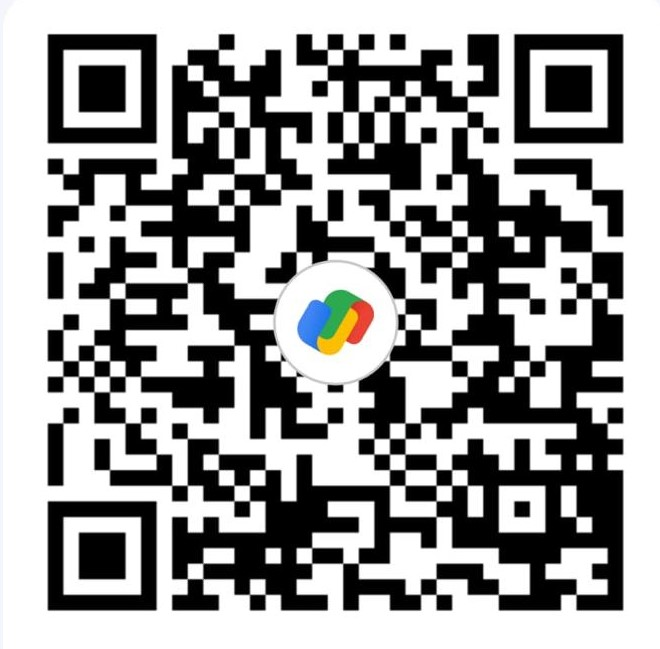
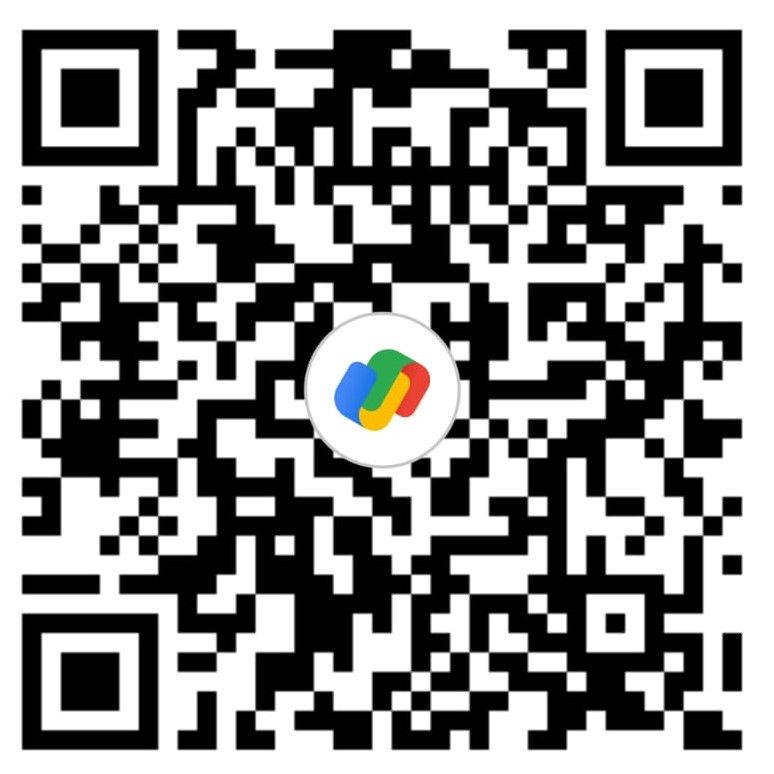
commit

diff --git a/src/Component/Pages/Wallet/Recharge/Recharge.tsx b/src/Component/Pages/Wallet/Recharge/Recharge.tsx
@@ -1,32 +1,44 @@
 import React, { useState } from 'react';
 import Header from '../../../Layout/Header/Header';
 import Footer from '../../../Layout/footer/Footer';
-import { db, auth } from '../../../../firebase/Firebase';
+import { db, auth, storage } from '../../../../firebase/Firebase';
 import { doc, setDoc } from 'firebase/firestore';
+import { ref, uploadBytes, getDownloadURL } from 'firebase/storage';
+import logo from '../../../../assets/upilogo.png';
+import { FaRegCopy } from "react-icons/fa6";
+import Toast from '../../../../Component/Layout/toast/Toast';
 
 const Recharge: React.FC = () => {
-    const [qrIndex, setQrIndex] = useState<number>(Math.floor(Math.random() * 5));
+    const [selectedUpiIndex, setSelectedUpiIndex] = useState<number | null>(null);
     const [utrNumber, setUtrNumber] = useState<string>('');
     const [rechargeAmount, setRechargeAmount] = useState<number | null>(null);
+    const [paymentProof, setPaymentProof] = useState<File | null>(null);
+    const [toastMessage, setToastMessage] = useState<string | null>(null);
     const currentUser = auth.currentUser;
 
     const qrDetails = [
-        { src: '../../../../../public/UPI/upi1.jpeg', upiId: 'mr2919635@okhdfcbank', name: 'Muthuraman M' },
-        { src: '../../../../../public/UPI/upi2.jpeg', upiId: 'priyadharshini140205@okaxis', name: 'Priya Dharshini' },
-        { src: '../../../../../public/UPI/upi3.jpeg', upiId: 'abrahama1906-2@okicici', name: 'Abraham A' },
-        { src: '../../../../../public/UPI/upi4.jpeg', upiId: 'masssaravanan854@okicici', name: 'Saravana Kumar' },
-        { src: '../../../../../public/UPI/upi5.jpeg', upiId: 'rockynaveen029-2@oksbi', name: 'Naveen Rocky' },
+        { upiId: 'saran2002murugan-1@oksbi', name: 'Saravanan M' },
+        { upiId: 'mchinnadurai582@okicici', name: 'M Chinnadurai' },
+        { upiId: 'rockykodi88@oksbi', name: 'Rocky Kodi' },
     ];
 
     const rechargeOptions = [100, 200, 500, 1000, 2000, 2500, 3000, 5000];
 
     const handleUtrSubmit = async () => {
+        if (selectedUpiIndex === null) {
+            setToastMessage('Please select a UPI ID');
+            return;
+        }
         if (!utrNumber || utrNumber.length !== 12 || !/^\d{12}$/.test(utrNumber)) {
-            alert('Please Enter UTR number');
+            setToastMessage('Please enter a valid 12-digit UTR number');
             return;
         }
         if (!rechargeAmount) {
-            alert('Please select a recharge amount');
+            setToastMessage('Please select a recharge amount');
+            return;
+        }
+        if (!paymentProof) {
+            setToastMessage('Please upload the payment proof');
             return;
         }
 
@@ -34,18 +46,41 @@ const Recharge: React.FC = () => {
         const timestamp = new Date();
 
         try {
+            const storageRef = ref(storage, `RechargeList/${userEmail}/${paymentProof.name}`);
+            await uploadBytes(storageRef, paymentProof);
+            const proofURL = await getDownloadURL(storageRef);
+
             const docRef = doc(db, 'RechargeList', userEmail);
             await setDoc(docRef, {
                 utrNumber: utrNumber.trim(),
                 rechargeAmount,
+                upiId: qrDetails[selectedUpiIndex].upiId,
+                proofURL,
                 timestamp
             }, { merge: false });
-            alert('Recharge information Sent Successfully Please wait 10 Minutes and get in your Wallet');
+
+            setToastMessage('Recharge information sent successfully. Please wait 10 minutes to see the balance in your wallet.');
             setUtrNumber('');
             setRechargeAmount(null);
+            setPaymentProof(null);
+            setSelectedUpiIndex(null);
         } catch (error) {
             console.error("Error adding document: ", error);
-            alert('Failed to save the recharge information.');
+            setToastMessage('Failed to save the recharge information.');
+        }
+    };
+
+    const handleFileChange = (e: React.ChangeEvent<HTMLInputElement>) => {
+        if (e.target.files && e.target.files[0]) {
+            setPaymentProof(e.target.files[0]);
+        }
+    };
+
+    const handleCopy = () => {
+        if (selectedUpiIndex !== null) {
+            navigator.clipboard.writeText(qrDetails[selectedUpiIndex].upiId)
+                .then(() => setToastMessage('UPI ID copied to clipboard'))
+                .catch((err) => console.error('Failed to copy UPI ID: ', err));
         }
     };
 
@@ -54,17 +89,32 @@ const Recharge: React.FC = () => {
             <Header />
             <div className="flex flex-col items-center justify-center">
                 <h1 className="text-2xl font-bold text-gray-700 mb-6 mt-24">Recharge Your Wallet</h1>
-                <div className='px-20'>
-                    <img src={qrDetails[qrIndex].src} alt="UPI QR Code" className="mb-3" />
+                <div className="px-1 grid grid-cols-3 md:grid-cols-3 gap-3 mb-6">
+                    {qrDetails.map((qr, index) => (
+                        <button
+                            key={index}
+                            onClick={() => setSelectedUpiIndex(index)}
+                            className={`p-4 border rounded-lg focus:outline-none ${selectedUpiIndex === index ? 'border-blue-500' : 'border-gray-300'}`}>
+                            <p className="text-lg text-gray-800">UPI</p>
+                            <img src={logo} alt={`UPI logo ${index + 1}`} className="w-full h-auto" />
+                        </button>
+                    ))}
                 </div>
-                <p className="text-lg text-gray-800 mt-3">UPI ID: {qrDetails[qrIndex].upiId}</p>
-                <p className="text-md text-gray-600 mb-6">Name: {qrDetails[qrIndex].name}</p>
+                {selectedUpiIndex !== null && (
+                    <div className="mb-4">
+                        <div className="flex items-center text-lg text-gray-800 mt-3" onClick={handleCopy}>
+                            <span>UPI ID: {qrDetails[selectedUpiIndex].upiId}</span>
+                            <FaRegCopy className="ml-2 cursor-pointer" />
+                        </div>
+                        <p className="text-md text-gray-600 mb-6">Name: {qrDetails[selectedUpiIndex].name}</p>
+                    </div>
+                )}
                 <div className="grid grid-cols-2 gap-4 mb-4 mt-5">
                     {rechargeOptions.map(amount => (
                         <button
                             key={amount}
                             onClick={() => setRechargeAmount(amount)}
-                            className={`bg-white text-blue-700 border border-blue-300 hover:bg-blue-100 font-bold py-2 px-4 rounded focus:outline-none focus:shadow-outline ${rechargeAmount === amount ? 'bg-blue-300' : ''}`}>
+                            className={`bg-white text-blue-700 border border-blue-300 hover:bg-blue-300 font-bold py-2 px-4 rounded focus:outline-none focus:shadow-outline ${rechargeAmount === amount ? 'bg-blue-300' : ''}`}>
                             Recharge ₹{amount}
                         </button>
                     ))}
@@ -76,12 +126,18 @@ const Recharge: React.FC = () => {
                         value={utrNumber}
                         onChange={(e) => setUtrNumber(e.target.value)}
                         className="border border-gray-300 p-2 rounded-lg w-[325px]" />
+                    <input
+                        type="file"
+                        accept="image/*"
+                        onChange={handleFileChange}
+                        className="border border-gray-300 p-2 rounded-lg w-[325px] mt-4" />
                     <button
                         onClick={handleUtrSubmit}
                         className="mt-3 bg-blue-500 hover:bg-blue-700 text-white font-bold py-2 px-4 rounded focus:outline-none focus:shadow-outline sm:mb-10">
                         Submit
                     </button>
                 </div>
+                {toastMessage && <Toast message={toastMessage} onClose={() => setToastMessage(null)} />}
             </div>
             <div className='mt-4'>
                 <Footer />

diff --git a/src/Component/Layout/profile/Fetch/FetchRecharge.tsx b/src/Component/Layout/profile/Fetch/FetchRecharge.tsx
@@ -5,14 +5,17 @@ import { db } from '../../../../firebase/Firebase';
 interface Recharge {
   id: string;
   rechargeAmount: number;
-  timestamp: any; 
+  timestamp: any;
   utrNumber: string;
+  url: string;
 }
 
 const RechargeTable: React.FC = () => {
   const [recharges, setRecharges] = useState<Recharge[]>([]);
   const [loading, setLoading] = useState(true);
   const [error, setError] = useState<string | null>(null);
+  const [showImagePopup, setShowImagePopup] = useState<boolean>(false);
+  const [selectedImage, setSelectedImage] = useState<string>('');
 
   useEffect(() => {
     fetchRecharges();
@@ -23,7 +26,7 @@ const RechargeTable: React.FC = () => {
       const querySnapshot = await getDocs(query(collection(db, "RechargeList")));
       const loadedRecharges: Recharge[] = querySnapshot.docs.map(doc => ({
         ...doc.data() as Recharge,
-        id: doc.id  // Use document ID as the email
+        id: doc.id
       }));
       setRecharges(loadedRecharges);
       setLoading(false);
@@ -44,6 +47,15 @@ const RechargeTable: React.FC = () => {
     }
   };
 
+  const handleImageClick = (imageUrl: string) => {
+    setSelectedImage(imageUrl);
+    setShowImagePopup(true);
+  };
+
+  const handleCloseImagePopup = () => {
+    setShowImagePopup(false);
+  };
+
   if (loading) return <p>Loading...</p>;
   if (error) return <p>Error: {error}</p>;
 
@@ -58,18 +70,26 @@ const RechargeTable: React.FC = () => {
               <th scope="col" className="px-6 py-3">Recharge Amount</th>
               <th scope="col" className="px-6 py-3">Timestamp</th>
               <th scope="col" className="px-6 py-3">UTR Number</th>
+              <th scope="col" className="px-6 py-3">Proof</th>
               <th scope="col" className="px-6 py-3">Actions</th>
             </tr>
           </thead>
           <tbody>
-            {recharges.map(({ id, rechargeAmount, timestamp, utrNumber }) => (
+            {recharges.map(({ id, rechargeAmount, timestamp, utrNumber, url }) => (
               <tr key={id} className="bg-white border-b hover:bg-gray-50">
                 <td className="px-6 py-4">{id}</td>
                 <td className="px-6 py-4">{rechargeAmount}</td>
                 <td className="px-6 py-4">{timestamp.toDate().toLocaleString()}</td>
                 <td className="px-6 py-4">{utrNumber}</td>
                 <td className="px-6 py-4">
-                  <button 
+                  <img
+                    src={url}
+                    alt=""
+                    className="h-12 w-12 object-cover cursor-pointer"
+                    onClick={() => handleImageClick(url)}
+                  />                </td>
+                <td className="px-6 py-4">
+                  <button
                     onClick={() => handleDelete(id)}
                     className="text-red-500 hover:text-red-700">Delete
                   </button>
@@ -79,6 +99,18 @@ const RechargeTable: React.FC = () => {
           </tbody>
         </table>
       </div>
+      {showImagePopup && (
+        <div className="fixed top-0 left-0 w-full h-full flex items-center justify-center bg-black bg-opacity-75">
+          <div className="relative max-w-3xl mx-auto">
+            <button
+              onClick={handleCloseImagePopup}
+              className="absolute top-4 right-4 text-white text-lg focus:outline-none">
+              Close
+            </button>
+            <img src={selectedImage} alt="" className="max-w-full max-h-full" />
+          </div>
+        </div>
+      )}
     </div>
   );
 };

diff --git a/src/Auth/Signup.tsx b/src/Auth/Signup.tsx
@@ -9,7 +9,7 @@ import {
 import { ref, uploadBytes } from "firebase/storage";
 import { Timestamp, addDoc, collection, query, where, getDocs, updateDoc, increment, setDoc, doc, arrayUnion, getDoc } from 'firebase/firestore';
 import { auth, db, storage } from "../firebase/Firebase";
-import logo from "../../public/logo.ico";
+import logo from "../assets/logo.ico";
 import { useUser } from "../context/UserContext";
 import { AiFillEyeInvisible, AiFillEye } from 'react-icons/ai';
 

diff --git a/src/Component/Layout/toast/Toast.tsx b/src/Component/Layout/toast/Toast.tsx
@@ -1,0 +1,16 @@
+import React, { useEffect } from 'react';
+
+const Toast: React.FC<{ message: string, onClose: () => void }> = ({ message, onClose }) => {
+    useEffect(() => {
+        const timer = setTimeout(onClose, 2000);
+        return () => clearTimeout(timer);
+    }, [onClose]);
+
+    return (
+        <div className="fixed top-20 bg-blue-500 text-white p-4 rounded shadow-lg">
+            {message}
+        </div>
+    );
+};
+
+export default Toast;

diff --git a/src/Component/Layout/Landing/Landing.tsx b/src/Component/Layout/Landing/Landing.tsx
@@ -2,7 +2,7 @@ import { useState } from "react";
 import { Dialog } from "@headlessui/react";
 import { Bars3Icon, XMarkIcon, UsersIcon, EyeIcon } from "@heroicons/react/24/outline";
 import { useNavigate } from "react-router-dom";
-import logo from "../../../../public/logo.ico";
+import logo from "../../../assets/logo.ico";
 import Footer from "../footer/Footer";
 import { GiTrophy } from "react-icons/gi";
 import bg from '../../../assets/gambling.jpeg';

diff --git a/index.html b/index.html
@@ -2,7 +2,7 @@
 <html lang="en">
   <head>
     <meta charset="UTF-8" />
-    <link rel="icon" type="image/svg+xml" href="/public/logo.ico" />
+    <link rel="icon" type="image/svg+xml" href="/src/assets/logo.ico" />
     <link href="https://cdn.tailwindcss.com" rel="stylesheet">
     <meta name="viewport" content="width=device-width, initial-scale=1.0" />
     <meta name="google-adsense-account" content="ca-pub-4901126073119757">

diff --git a/src/Component/Layout/Header/Header.tsx b/src/Component/Layout/Header/Header.tsx
@@ -15,7 +15,7 @@ import {
 } from "@heroicons/react/20/solid";
 import { signOut } from "firebase/auth";
 import { useNavigate } from "react-router-dom";
-import logo from "../../../../public/logo.ico";
+import logo from "../../../assets/logo.ico";
 import Wallet from "../../Pages/Wallet/Wallet";
 import { auth } from '../../../firebase/Firebase';
 

diff --git a/src/Auth/Login.tsx b/src/Auth/Login.tsx
@@ -7,7 +7,7 @@ import {
   onAuthStateChanged,
 } from "firebase/auth";
 import { auth } from "../firebase/Firebase";
-import logo from "../../public/logo.ico";
+import logo from "../assets/logo.ico";
 import { useUser } from "../context/UserContext";
 import { AiFillEyeInvisible, AiFillEye } from 'react-icons/ai';
 
